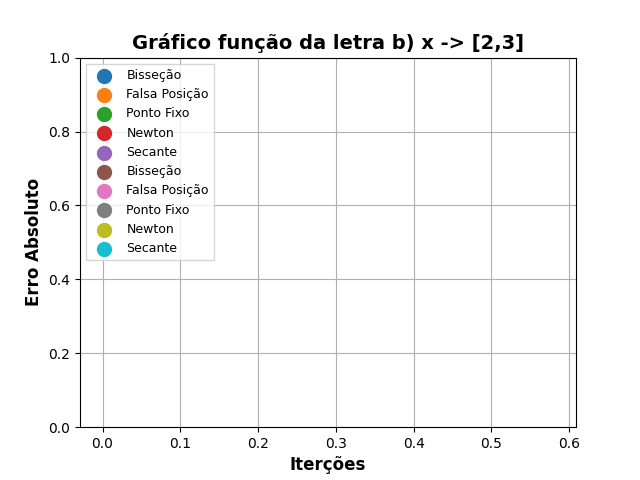
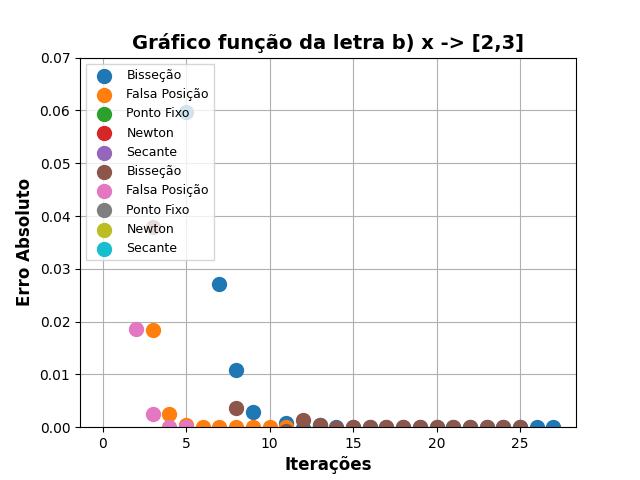
mais correções

diff --git a/metodos.py b/metodos.py
@@ -7,6 +7,7 @@ def bisection(f, a, b, tolerance, n_max):
     x = sp.Symbol('x')
 
     errosBissecao = []
+    iteracoesBissecao = []
 
     
     if f.subs(x, float(a)) * f.subs(x, float(b)) >= 0:
@@ -18,6 +19,8 @@ def bisection(f, a, b, tolerance, n_max):
     
     while abs(f.subs(x,float(c))) > tolerance and cont <= n_max:
         c = (a + b) / 2
+        errosBissecao.append(f.subs(x,float(c)))
+        iteracoesBissecao.append(cont)
         if abs(f.subs(x,float(c))) < tolerance:
             break
         if f.subs(x,float(c)) * f.subs(x,float(a)) < 0:
@@ -34,7 +37,7 @@ def bisection(f, a, b, tolerance, n_max):
     else:
         print("O maximo de iterações foi alcançado.")
 
-    return c, abs(f.subs(x,float(c))), cont, x0, x1
+    return c, abs(f.subs(x,float(c))), cont, x0, x1, errosBissecao,iteracoesBissecao
 
 
 def regulaFalsi(f, a, b, tolerance, n_max):
@@ -42,13 +45,17 @@ def regulaFalsi(f, a, b, tolerance, n_max):
     b = float(b)
     x = sp.Symbol('x')
     xold = b
+    errosFalsaPosicao = []
+    iteracoesFalsaPosicao = []
 
     iteracoes = 1
     while iteracoes <= n_max:
         c = (a * f.subs(x, float(b)) - b * f.subs(x, float(a))) / (f.subs(x, float(b)) - f.subs(x, float(a)))
-        print(iteracoes)
+        errosFalsaPosicao.append(abs(c - xold))
+        iteracoesFalsaPosicao.append(iteracoes)
+
         if abs(c - xold) < tolerance:
-            print('entrou')
+            print('entrou',(c - xold))
             break
         xold = c
         if f.subs(x, float(a)) * f.subs(x,float(c)) < 0:
@@ -58,7 +65,7 @@ def regulaFalsi(f, a, b, tolerance, n_max):
         iteracoes += 1
         
 
-    return c, abs(f.subs(x, float(c))), iteracoes
+    return c, abs(f.subs(x, float(c))), iteracoes,errosFalsaPosicao,iteracoesFalsaPosicao
 
 def FixedPoint(f, phi, a, b, tolerance, n_max):
     a = float(a)
@@ -109,18 +116,14 @@ def Secant(f, x0, x1, tolerance, n_max):
     x1 = float(x1)
 
     xSimbolico=sp.Symbol('x')
-    print(x0,x1,f.subs(xSimbolico,float(x0)) , f.subs(xSimbolico,float(x1)))
-    # Check if the initial guesses bracket a root
-    # if f.subs(xSimbolico,float(x0)) * f.subs(xSimbolico,float(x1)) >= 0:
-    #     print("As funções f.subs(x,a) e f.subs(x,b) deve ter sinais diferentes.")
-    #     return
 
     # Itera usando metodo da secante
     for n in range(n_max):
         x = x1 - f.subs(xSimbolico,float(x1)) * (float(x1) - float(x0)) / (f.subs(xSimbolico,float(x1)) - f.subs(xSimbolico,float(x0)))
         print(x)
+        
         # se a raiz foi encontrada, returna o resultado
-        if abs(f.subs(xSimbolico,float(x))) <= tolerance:
+        if abs(x - x1) < tolerance:
             return x, abs(f.subs(xSimbolico,float(x))), n
 
         # se não, prepara para a proxima iteração

diff --git a/trab3.py b/trab3.py
@@ -101,10 +101,10 @@ for [funcao, derivada] in zip(funcoes, derivadas):
             phi = phis[3] 
     
     # Bisseção
-    [raizBi, imagem_raizBi, n_iteracoesBi, x0, x1] = metodos.bisection(funcao, lb, ub, tolerancia, max_iter)
+    [raizBi, imagem_raizBi, n_iteracoesBi, x0, x1, errosBissecao,iteracoesBissecao] = metodos.bisection(funcao, lb, ub, tolerancia, max_iter)
     print("Terminei Bisseção")
     # Falsa Posição
-    [raizFP, imagem_raizFP, n_iteracoesFP] = metodos.regulaFalsi(funcao, lb, ub, tolerancia, max_iter)
+    [raizFP, imagem_raizFP, n_iteracoesFP,errosFalsaPosicao,iteracoesFalsaPosicao] = metodos.regulaFalsi(funcao, lb, ub, tolerancia, max_iter)
     print("Terminei Falsa Posição")
     # Ponto Fixo
     [raizPF, imagem_raizPF, n_iteracoesPF] = metodos.FixedPoint(funcao, phi, lb, ub, tolerancia, max_iter)
@@ -120,11 +120,11 @@ for [funcao, derivada] in zip(funcoes, derivadas):
     plt.title(titulos[contador], fontdict=fonte_titulo)
     plt.xlabel("Iterações", fontdict=fonte_labels)
     plt.ylabel("Erro Absoluto", fontdict=fonte_labels)
-    plt.ylim(0,1)
+    plt.ylim(0,0.07)
     plt.grid(zorder = 1)
-    print(imagem_raizBi,raizBi)
-    plt.scatter(imagem_raizBi, raizBi, marker='o', zorder = 2, label="Bisseção", s=100)
-    plt.scatter(imagem_raizFP, raizFP, marker='o', zorder = 2, label="Falsa Posição", s=100)
+    print(imagem_raizBi,iteracoesFalsaPosicao)
+    plt.scatter(iteracoesBissecao, errosBissecao, marker='o', zorder = 2, label="Bisseção", s=100)
+    plt.scatter(iteracoesFalsaPosicao, errosFalsaPosicao, marker='o', zorder = 2, label="Falsa Posição", s=100)
     plt.scatter(imagem_raizPF, raizPF, marker='o', zorder = 2, label="Ponto Fixo", s=100)
     plt.scatter(imagem_raizNew, raizNew, marker='o', zorder = 2, label="Newton", s=100)
     plt.scatter(imagem_raizSec, raizSec, marker='o', zorder = 2, label="Secante", s=100)
